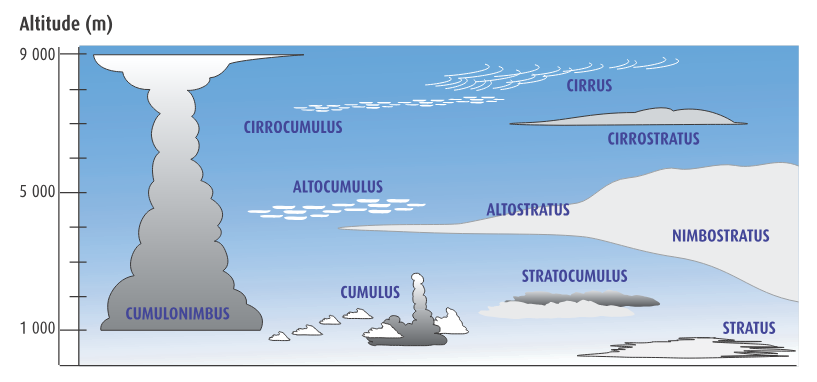
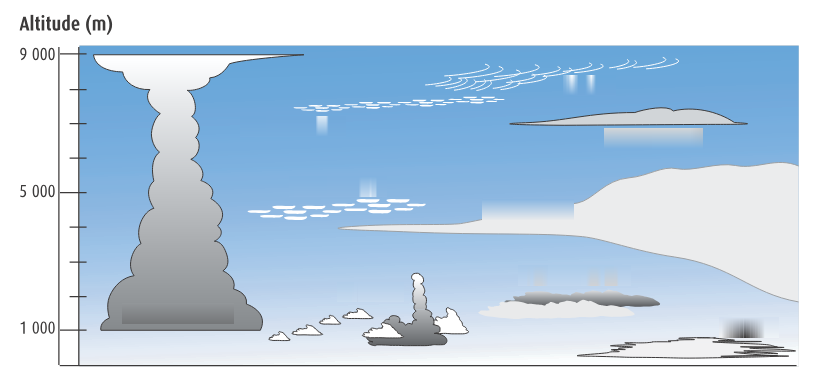
Replace aircraft images, erase cloud diagram text labels, update dropdown positions
- Replace 6 aircraft navigation light images with new screenshots
- Update acImg() style: max-height:100px;max-width:180px (images are now wider/shorter)
- Erase 10 cloud name text labels from clouds-altitude-diagram.png (gradient fill)
- Update CLOUD_POSITIONS with exact % positions from OCR bounding boxes
- Center dropdowns on text positions with transform: translate(-50%, -50%)

diff --git a/symboles.html b/symboles.html
@@ -32,7 +32,7 @@
     .cloud-diagram-wrap { max-width: 850px; margin: 0 auto; padding: 20px; }
     .cloud-diagram-img { position: relative; display: inline-block; }
     .cloud-diagram-img img { width: 100%; max-width: 817px; border-radius: 10px; }
-    .cloud-dropdown { position: absolute; font-size: 0.72em; padding: 2px 4px; border-radius: 4px; border: 1.5px solid #667eea; background: rgba(0,0,0,0.7); color: #fff; cursor: pointer; }
+    .cloud-dropdown { position: absolute; font-size: 0.72em; padding: 2px 4px; border-radius: 4px; border: 1.5px solid #667eea; background: rgba(0,0,0,0.7); color: #fff; cursor: pointer; transform: translate(-50%, -50%); }
     .cloud-dropdown option { background: #222; }
     .cloud-dropdown.correct { border-color: #4caf50; background: rgba(76,175,80,0.2); }
     .cloud-dropdown.wrong { border-color: #f44336; background: rgba(244,67,54,0.2); }
@@ -638,7 +638,7 @@
       SYM_IMAGES['Manche à air (segments)'] = S(110,60,'<line x1="10" y1="52" x2="10" y2="8" stroke="#555" stroke-width="3"/><polygon points="10,10 10,42 100,36 100,16" fill="none" stroke="#555" stroke-width="1.5"/><rect x="10" y="10" width="18" height="32" fill="#e74c3c" opacity=".85"/><rect x="28" y="12" width="18" height="28" fill="#fff" opacity=".85"/><rect x="46" y="14" width="18" height="24" fill="#e74c3c" opacity=".85"/><rect x="64" y="16" width="18" height="20" fill="#fff" opacity=".85"/><rect x="82" y="18" width="18" height="18" fill="#e74c3c" opacity=".85"/>');
 
       // === FEUX DE NAVIGATION (images d'avion extraites) ===
-      function acImg(file, alt) { return '<div style="display:inline-block;background:#1a1a2e;border-radius:10px;padding:6px 10px;"><img src="Symboles/Meteo/aircraft/' + file + '" alt="' + alt + '" style="height:80px;"></div>'; }
+      function acImg(file, alt) { return '<div style="display:inline-block;background:#1a1a2e;border-radius:10px;padding:6px 10px;"><img src="Symboles/Meteo/aircraft/' + file + '" alt="' + alt + '" style="max-height:100px;max-width:180px;"></div>'; }
       SYM_IMAGES['🟢 gauche · 🔴 droite (face)'] = acImg('facing-towards.png','Avion de face');
       SYM_IMAGES['⬜ blanc (arrière)'] = acImg('facing-away.png','Avion de dos');
       SYM_IMAGES['🟢 vert seul visible'] = acImg('facing-right.png','Avion allant à droite');
@@ -1244,17 +1244,17 @@
     // CLOUD INTERACTIVE DIAGRAM
     // ================================================
     var CLOUD_POSITIONS = [
-      // Approximate % positions on the 817x382 diagram for each cloud label
-      {name:'Cirrus',         x:72, y:12},
-      {name:'Cirrocumulus',   x:38, y:12},
-      {name:'Cirrostratus',   x:72, y:28},
-      {name:'Altocumulus',    x:38, y:36},
-      {name:'Altostratus',    x:72, y:44},
-      {name:'Nimbostratus',   x:72, y:62},
-      {name:'Cumulonimbus',   x:12, y:40},
-      {name:'Cumulus',        x:38, y:62},
-      {name:'Stratocumulus',  x:55, y:78},
-      {name:'Stratus',        x:80, y:82}
+      // Exact % positions matching erased text labels on the 817x382 diagram
+      {name:'Cirrus',         x:72.2, y:22.4},
+      {name:'Cirrocumulus',   x:35.9, y:33.1},
+      {name:'Cirrostratus',   x:80.0, y:36.3},
+      {name:'Altocumulus',    x:41.4, y:48.8},
+      {name:'Altostratus',    x:64.6, y:55.0},
+      {name:'Nimbostratus',   x:88.2, y:61.6},
+      {name:'Cumulonimbus',   x:21.8, y:82.1},
+      {name:'Cumulus',        x:45.3, y:76.4},
+      {name:'Stratocumulus',  x:70.3, y:72.1},
+      {name:'Stratus',        x:91.7, y:85.7}
     ];
     var CLOUD_NAMES = ['—','Cirrus','Cirrocumulus','Cirrostratus','Altocumulus','Altostratus','Nimbostratus','Cumulonimbus','Cumulus congestus (TCU)','Cumulus','Stratocumulus','Stratus'];
     var cloudDiagramReady = false;
